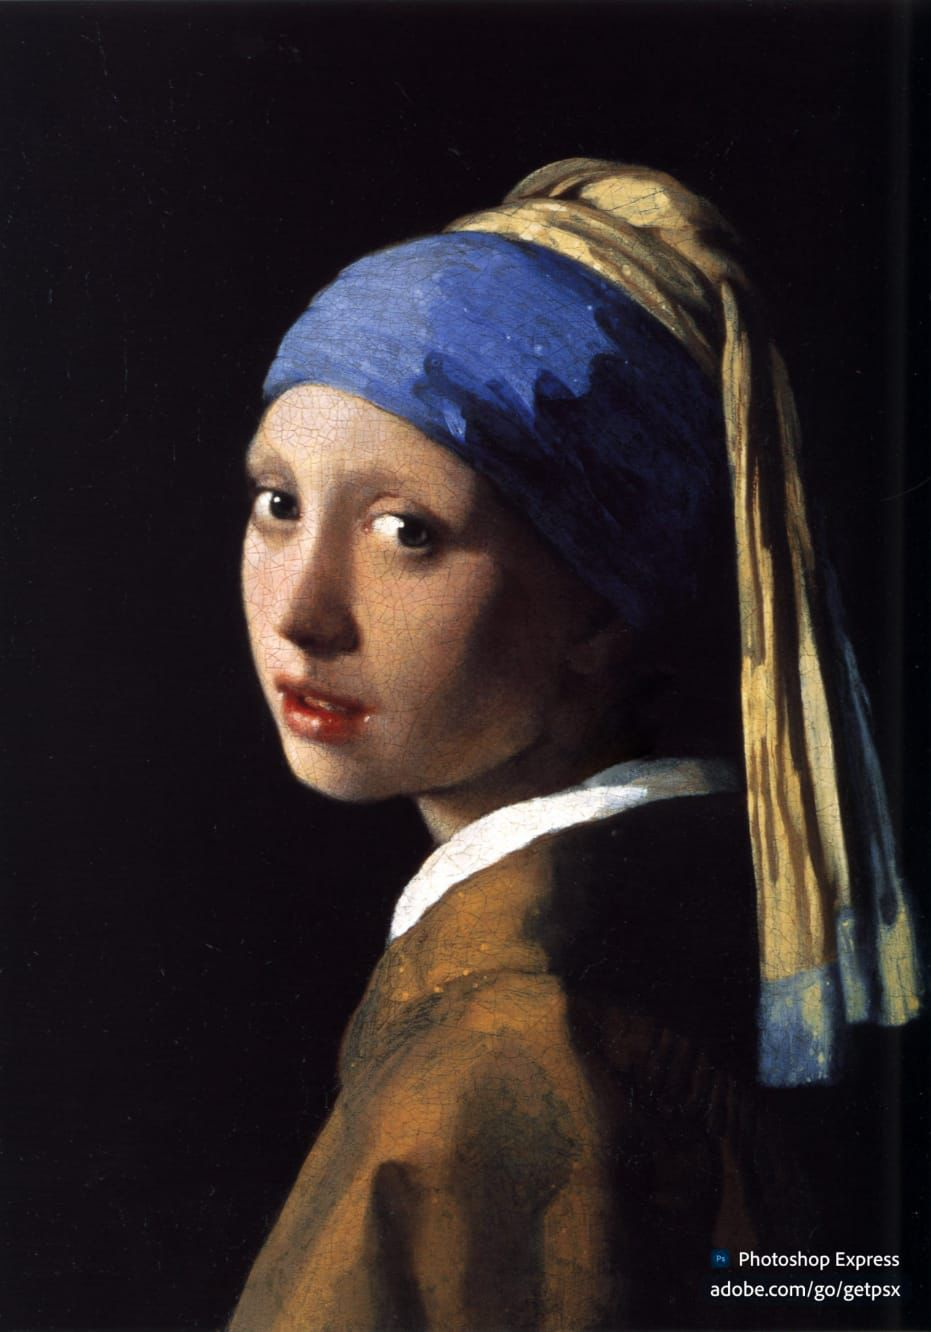
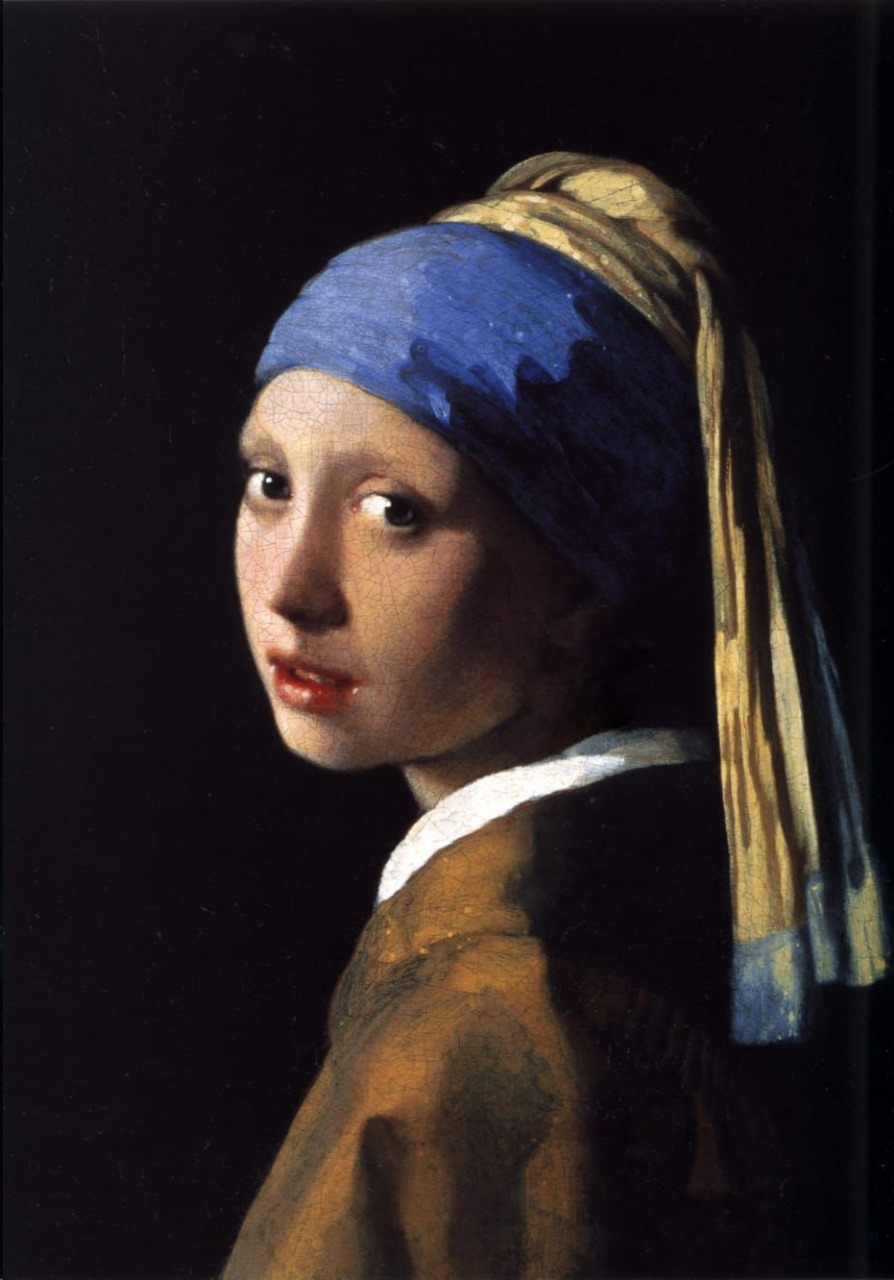
fix layout to fill

diff --git a/src/app/components/atoms/ImageItem.tsx b/src/app/components/atoms/ImageItem.tsx
@@ -14,19 +14,20 @@ interface ImageItemProps {
 
 const ImageItem: React.FC<ImageItemProps> = ({ id, src, title, description, width, height, author }) => {
   const [hasError, setHasError] = React.useState(false);
+
   return (
-    <div className="relative break-inside-avoid group overflow-hidden">
-      <Image
-        src={src}
-        alt={title}
-        className="w-full h-auto rounded-sm shadow-md"
-        style={{ objectFit: 'cover' }}
-        layout="responsive"
-        width={width}
-        height={height}
-        onError={() => setHasError(true)}
-        loading="lazy"
-      />
+    <div className="relative break-inside-avoid group overflow-hidden" style={{ width, height }}>
+      <div className="relative w-full h-full">
+        <Image
+          src={src}
+          alt={title}
+          className="rounded-sm shadow-md"
+          style={{ objectFit: 'cover' }}
+          fill
+          onError={() => setHasError(true)}
+          loading="lazy"
+        />
+      </div>
       {hasError && <p className="text-red-500">Failed to load image</p>}
       <div className="absolute bottom-0 left-0 right-0 bg-black bg-opacity-50 text-white p-4 opacity-0 group-hover:opacity-100 transform translate-y-full group-hover:translate-y-0 transition-all duration-300 ease-in-out">
         <h2 className="text-md italic">{title}</h2>

diff --git a/src/app/components/atoms/ImageCard.tsx b/src/app/components/atoms/ImageCard.tsx
@@ -11,17 +11,19 @@ interface ImageCardProps {
 const ImageCard: React.FC<ImageCardProps> = ({ src, title, description }) => {
   return (
     <div className="relative h-full group overflow-hidden">
-      <div className="relative h-full">
+      {/* Contêiner que define o layout da imagem */}
+      <div className="relative h-48 md:h-full w-full">
         <Image
           src={src}
           alt={`Image of ${title}`}
-          layout="fill"
+          fill
           objectFit="cover"
           placeholder="blur"
-          blurDataURL={src.src} 
+          blurDataURL={src.src}
           className="transition-transform duration-300 group-hover:scale-105"
         />
       </div>
+      {/* Texto sobreposto */}
       <div className="absolute inset-0 bg-black bg-opacity-30 flex items-end justify-center">
         <div className="bg-black bg-opacity-60 text-white p-2 w-full">
           <h4 className="text-md font-light mb-2">{title}</h4>

diff --git a/src/app/components/organisms/Spotlight.tsx b/src/app/components/organisms/Spotlight.tsx
@@ -52,7 +52,7 @@ const Spotlight = () => {
             className={`w-full h-full bg-cover bg-center absolute top-0 left-0 transition-opacity duration-500 ${
               index === activeIndex ? 'opacity-100' : 'opacity-0'
             }`}
-            style={{ backgroundImage: `url(${imageInfo.src.src})` }} // Usar src.src para obter a URL da imagem
+            style={{ backgroundImage: `url(${imageInfo.src.src})` }} 
           >
             <div className="absolute bottom-4 left-4 bg-black bg-opacity-60 text-white p-4 rounded-sm ">
               <h2 className="text-lg italic">{imageInfo.title}</h2>

diff --git a/src/app/components/molecules/Upcoming.tsx b/src/app/components/molecules/Upcoming.tsx
@@ -38,7 +38,7 @@ const Upcoming = () => {
             <Image
               src={image.src}
               alt={`Slide ${index}`}
-              layout="fill"
+              fill
               objectFit="cover"
               priority={index === activeIndex}
             />
